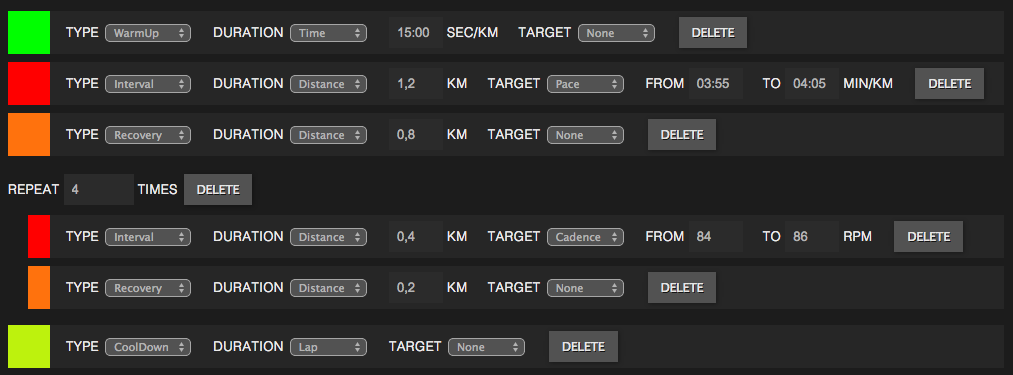
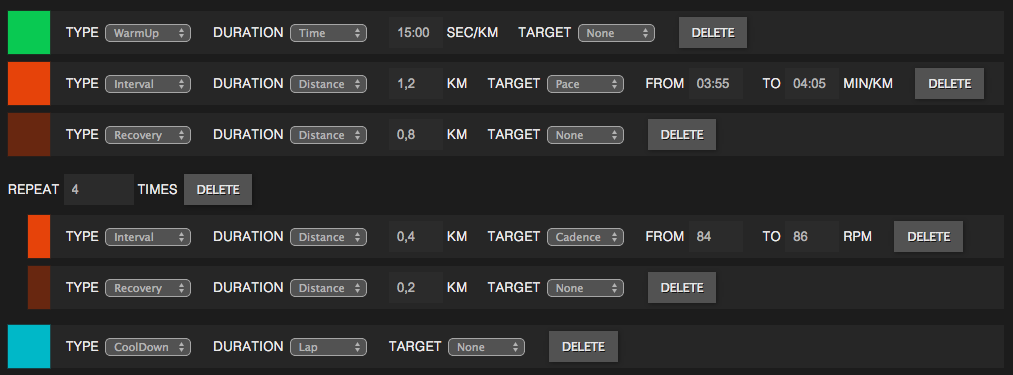
Visualization of workout
Changed colours for each interval step to match the official workout
editor in the Movescount iPhone app.

Added visualisation to show the steps of the workout (same as iPhone
app).

Changed region(s): [[0.0, 0.0293, 0.0612, 0.44], [0.0, 0.5573, 0.0612, 0.8213], [0.0, 0.8507, 0.0612, 0.9973]]

diff --git a/app/scripts/services/calculatorservice.js b/app/scripts/services/calculatorservice.js
@@ -9,7 +9,7 @@
  */
 angular.module('ambitIntervalsApp')
   .service('calculatorservice', function calculatorservice(preprocessor) {
-    var calculateStep = function (step, times) {
+    var calculateStep = function (step, times, defaultDuration) {
       var duration = 0;
       var distance = 0;
       var defaultPace = 5*60; // Assume a pace of 05:00 min/km.
@@ -32,6 +32,10 @@ angular.module('ambitIntervalsApp')
           duration = distance * defaultPace;
         }
       }
+      else {
+        duration = defaultDuration;
+        distance = duration / defaultPace;
+      }
 
       return {
         duration: duration * times,
@@ -50,12 +54,12 @@ angular.module('ambitIntervalsApp')
         var step = interval.steps[i];
         if (step.type === 'Repeat') {
           for (var j = 0; j < step.steps.length; ++j) {
-            durationDistance = calculateStep(step.steps[j], step.times);
+            durationDistance = calculateStep(step.steps[j], step.times, 0);
             totalDistance += durationDistance.distance;
             totalDuration += durationDistance.duration;
           }
         } else {
-          durationDistance = calculateStep(step, 1);
+          durationDistance = calculateStep(step, 1, 0);
           totalDistance += durationDistance.distance;
           totalDuration += durationDistance.duration;
         }
@@ -65,5 +69,38 @@ angular.module('ambitIntervalsApp')
         duration: totalDuration,
         distance: totalDistance.toFixed(2)
       };
+    };
+
+    this.calculateVisualisation = function (interval, totalDurationAndDistance) {
+      var steps = [];
+      var durationDistance;
+      var width = '0%';
+
+      for (var i = 0; i < interval.steps.length; ++i) {
+        var step = interval.steps[i];
+        if (step.type === 'Repeat') {
+          for (var j = 0; j < step.times; ++j) {
+            for (var k = 0; k < step.steps.length; ++k) {
+              durationDistance = calculateStep(step.steps[k], 1, 5*60);
+              width = (durationDistance.duration/totalDurationAndDistance.duration) * 100 + '%';
+              steps.push({
+                type: step.steps[k].type,
+                inRepeat: 'in-repeat',
+                width: width
+              });
+            }
+          }
+        } else {
+          durationDistance = calculateStep(step, 1, 5*60);
+          width = (durationDistance.duration/totalDurationAndDistance.duration) * 100 + '%';
+          steps.push({
+            type: step.type,
+            inRepeat: 'no-repeat',
+            width: width
+          });
+        }
+      }
+
+      return steps;
     };
   });

diff --git a/app/styles/visualisation.less b/app/styles/visualisation.less
@@ -1,0 +1,38 @@
+@import "variables.less";
+
+.workout-visualisation {
+	width: 100%;
+	display: flex;
+}
+
+.no-repeat {
+	width: 100%;
+}
+
+.in-repeat {
+	width: 60%;
+}
+
+.step-visualisation.WarmUp {
+	background-color: @easyColor;
+}
+
+.step-visualisation.CoolDown {
+	background-color: @moderateColor;
+}
+
+.step-visualisation.Interval {
+	background-color: @maximalColor;
+}
+
+.step-visualisation.Rest {
+	background-color: @hardColor;
+}
+
+.step-visualisation.Recovery {
+	background-color: @veryHardColor;
+}
+
+.step-visualisation.Other {
+	background-color: @noIntensityColor;
+}

diff --git a/app/styles/intervaleditor.less b/app/styles/intervaleditor.less
@@ -26,27 +26,27 @@
 	cursor: move;
 }
 
-.WarmUp {
+.step.WarmUp {
 	border-color: @easyColor;
 }
 
-.CoolDown {
+.step.CoolDown {
 	border-color: @moderateColor;
 }
 
-.Interval {
+.step.Interval {
 	border-color: @maximalColor;
 }
 
-.Rest {
+.step.Rest {
 	border-color: @hardColor;
 }
 
-.Recovery {
+.step.Recovery {
 	border-color: @veryHardColor;
 }
 
-.Other {
+.step.Other {
 	border-color: @noIntensityColor;
 }
 
@@ -75,7 +75,7 @@
 
 @media screen and (max-width: 480px) {
 	.interval-metadata-line {
-		input, textarea {
+		input[type='text'], textarea {
 			width: 100%;
 		}
 	}

diff --git a/app/views/main.html b/app/views/main.html
@@ -71,6 +71,13 @@
         <img class="icon" src="images/movescount-duration-icon.png" alt="Estimated duration {{durationAndDistance.duration}}" />
         <span>{{durationAndDistance.duration | sectopace}} h</span>
       </div>
+      <div class="workout-visualisation">
+        <div
+          ng-repeat="step in visualisation"
+          class="step-visualisation {{step.type}} {{step.inRepeat}}"
+          style="width: {{step.width}}"
+          title="{{step.type}}"></div>
+      </div>
     </div>
 
   </div>

diff --git a/app/scripts/controllers/main.js b/app/scripts/controllers/main.js
@@ -71,6 +71,7 @@ angular.module('ambitIntervalsApp')
     $scope.$watch('interval', function (newValue) {
       intervalFilesService.saveInterval(newValue);
       $scope.durationAndDistance = calculatorservice.calculateInterval(newValue);
+      $scope.visualisation = calculatorservice.calculateVisualisation(newValue, $scope.durationAndDistance);
     }, true);
 
     $scope.$watch('importFile', function (newValue) {

diff --git a/app/styles/layout.less b/app/styles/layout.less
@@ -182,6 +182,7 @@ pre {
 	display: flex;
 	align-items: center;
 	margin-right: 24px;
+	flex-shrink: 0;
 
 	img {
 		margin-right: 12px;
@@ -192,6 +193,17 @@ pre {
 
 #disqus_thread {
 	max-width: 770px;
+}
+
+@media screen and (max-width: 720px) {
+	#durationAndDistance {
+		flex-wrap: wrap;
+	}
+
+	.workout-visualisation {
+		min-height: 32px;
+		margin-top: 8px;
+	}
 }
 
 @media screen and (max-width: 480px) {

diff --git a/app/styles/variables.less b/app/styles/variables.less
@@ -10,8 +10,8 @@
 
 /* Intensity colors */
 @noIntensityColor: #525252;
-@easyColor: rgb(0, 255, 0);
-@moderateColor: rgb(189, 242, 13);
-@hardColor: rgb(255, 228, 26);
-@veryHardColor: rgb(255, 114, 13);
-@maximalColor: rgb(255, 0, 0);
+@easyColor: #09c952;
+@moderateColor: #00b8c8;
+@hardColor: #105c2d;
+@veryHardColor: #682710;
+@maximalColor: #e6430a;

diff --git a/app/styles/main.less b/app/styles/main.less
@@ -3,4 +3,5 @@
 @import "forms.less";
 @import "typography.less";
 @import "intervaleditor.less";
+@import "visualisation.less";
 @import "layout.less";
